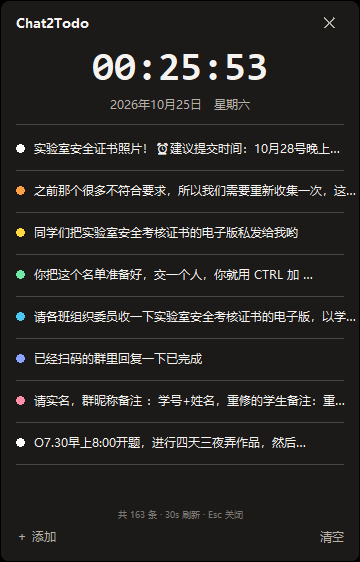
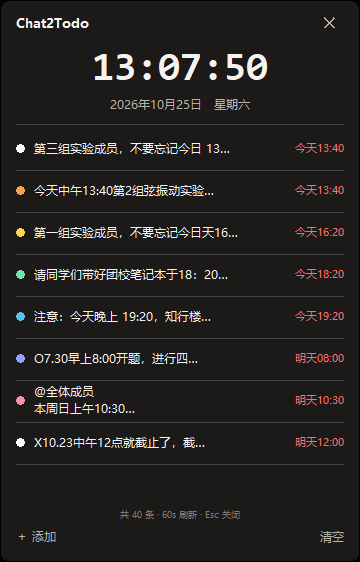
feat(dashboard): due-date chips, urgency colors, deadline-ordered list, right-click mute

diff --git a/src/chat2todo/core/deadline.py b/src/chat2todo/core/deadline.py
@@ -1,0 +1,136 @@
+"""从聊天文本里解析截止时间。
+
+只覆盖中文聊天里最常见的说法，解析不出来就返回 None——宁可没有，也不要瞎猜。
+支持：
+    10月28号 / 10月28日 22:00前
+    明天下午三点前 / 今晚19:20 / 后天中午
+    周二 / 下周三 / 本周五
+    只有时间没有日期时按「今天，如果已过则明天」处理
+"""
+
+from __future__ import annotations
+
+import re
+from datetime import datetime, timedelta
+from typing import Optional
+
+_REL = {
+    "今天": 0, "今晚": 0, "今日": 0,
+    "明天": 1, "明晚": 1, "明日": 1,
+    "后天": 2, "大后天": 3,
+}
+_WEEK = {"一": 0, "二": 1, "三": 2, "四": 3, "五": 4, "六": 5, "日": 6, "天": 6}
+_PERIOD = {"凌晨": 0, "早上": 0, "上午": 0, "中午": 12, "下午": 12, "傍晚": 18, "晚上": 12, "今晚": 12}
+
+_MD = re.compile(r"(\d{1,2})\s*月\s*(\d{1,2})\s*[日号]")
+_WEEKDAY = re.compile(r"(下?)\s*(?:周|星期)\s*([一二三四五六日天])")
+_HHMM = re.compile(r"(\d{1,2})\s*[:：]\s*(\d{2})")
+_HOUR = re.compile(r"(凌晨|早上|上午|中午|下午|傍晚|晚上)?\s*(\d{1,2})\s*[点时](半)?")
+_CN_HOUR = re.compile(r"(凌晨|早上|上午|中午|下午|傍晚|晚上)?\s*([一二三四五六七八九十]{1,3})\s*[点时](半)?")
+_CN = {"一": 1, "二": 2, "三": 3, "四": 4, "五": 5, "六": 6, "七": 7, "八": 8,
+       "九": 9, "十": 10, "十一": 11, "十二": 12}
+
+
+def _cn_to_int(s: str) -> Optional[int]:
+    return _CN.get(s)
+
+
+def parse(text: str, now: Optional[datetime] = None) -> Optional[int]:
+    """返回截止时间的 Unix 时间戳；无法判断时返回 None。"""
+    if not text:
+        return None
+    now = now or datetime.now()
+
+    date: Optional[datetime] = None
+    if (m := _MD.search(text)):
+        month, day = int(m.group(1)), int(m.group(2))
+        year = now.year
+        try:
+            cand = now.replace(month=month, day=day, hour=0, minute=0, second=0, microsecond=0)
+        except ValueError:
+            return None
+        if cand < now - timedelta(days=180):      # 明显是明年的事
+            cand = cand.replace(year=year + 1)
+        date = cand
+    else:
+        for word, delta in _REL.items():
+            if word in text:
+                date = (now + timedelta(days=delta)).replace(hour=0, minute=0, second=0, microsecond=0)
+                break
+    if date is None and (m := _WEEKDAY.search(text)):
+        target = _WEEK[m.group(2)]
+        ahead = (target - now.weekday()) % 7
+        if m.group(1) == "下" or ahead == 0:
+            ahead += 7 if m.group(1) == "下" else 0
+        date = (now + timedelta(days=ahead)).replace(hour=0, minute=0, second=0, microsecond=0)
+    if date is None:
+        # 只有时间（如「19点前到」）：按今天算，已过则明天
+        if not (_HHMM.search(text) or _HOUR.search(text)):
+            return None
+        date = now.replace(hour=0, minute=0, second=0, microsecond=0)
+
+    hour = minute = None
+    if (m := _HHMM.search(text)):
+        hour, minute = int(m.group(1)), int(m.group(2))
+    elif (m := _HOUR.search(text)):
+        period, hh, half = m.group(1), int(m.group(2)), m.group(3)
+        if period in _PERIOD and period != "中午":
+            hour = hh + _PERIOD[period] if hh < 12 else hh
+        elif period == "中午":
+            hour = 12 if hh >= 12 else hh
+        else:
+            hour = hh
+        if 0 <= hour <= 23:
+            minute = 30 if half else 0
+        else:
+            hour = minute = None
+    elif (m := _CN_HOUR.search(text)):
+        period, cn, half = m.group(1), _cn_to_int(m.group(2)), m.group(3)
+        if cn is None:
+            return None
+        hh = cn
+        if period in _PERIOD and period != "中午":
+            hour = hh + _PERIOD[period] if hh < 12 else hh
+        elif period == "中午":
+            hour = 12 if hh >= 12 else hh
+        else:
+            hour = hh
+        minute = 30 if half else 0
+
+    if hour is None:
+        result = date.replace(hour=23, minute=59)
+    else:
+        result = date.replace(hour=hour, minute=minute or 0)
+    if result < now and date.date() == now.date():
+        # 只有时间的场景：今天的时间已过 → 顺延到明天
+        result += timedelta(days=1)
+    if result < now - timedelta(days=1):
+        return None                                # 明显是过去的旧消息，别当待办截止
+    return int(result.timestamp())
+
+
+def label(ts: Optional[int], now: Optional[datetime] = None) -> str:
+    """把时间戳变成看板上的一小段文字：今天22:00 / 明天 / 3天后 / 已过期。"""
+    if not ts:
+        return ""
+    now = now or datetime.now()
+    due = datetime.fromtimestamp(ts)
+    days = (due.date() - now.date()).days
+    clock = due.strftime("%H:%M")
+    if ts < now.timestamp():
+        return "已过期"
+    if days == 0:
+        return f"今天{clock}"
+    if days == 1:
+        return f"明天{clock}"
+    if days <= 7:
+        return f"{days}天后"
+    return due.strftime("%m-%d")
+
+
+def urgency(ts: Optional[int], now: Optional[datetime] = None) -> int:
+    """0=无期限 1=宽松 2=紧急（24 小时内）。"""
+    if not ts:
+        return 0
+    now = now or datetime.now()
+    return 2 if ts - now.timestamp() <= 86400 else 1

diff --git a/tests/test_deadline.py b/tests/test_deadline.py
@@ -1,0 +1,67 @@
+"""截止时间解析测试（用固定 now，避免依赖真实时间）。"""
+
+from __future__ import annotations
+
+import os
+import sys
+import unittest
+from datetime import datetime
+
+sys.path.insert(0, os.path.join(os.path.dirname(os.path.dirname(os.path.abspath(__file__))), "src"))
+
+from chat2todo.core.deadline import label, parse, urgency  # noqa: E402
+
+NOW = datetime(2026, 10, 25, 9, 0, 0)  # 周日
+
+
+class TestParse(unittest.TestCase):
+    def test_month_day_with_hhmm(self) -> None:
+        ts = parse("建议提交时间：10月28号晚上22:00前", NOW)
+        self.assertIsNotNone(ts)
+        dt = datetime.fromtimestamp(ts)
+        self.assertEqual((dt.month, dt.day), (10, 28))
+
+    def test_tomorrow_afternoon(self) -> None:
+        ts = parse("明天下午三点前把周报发我", NOW)
+        dt = datetime.fromtimestamp(ts)
+        self.assertEqual((dt.month, dt.day), (10, 26))
+        self.assertEqual(dt.hour, 15)
+
+    def test_today_evening(self) -> None:
+        ts = parse("今晚19:20 心理教育课", NOW)
+        dt = datetime.fromtimestamp(ts)
+        self.assertEqual((dt.day, dt.hour, dt.minute), (25, 19, 20))
+
+    def test_only_clock_past_rolls_to_tomorrow(self) -> None:
+        ts = parse("8点前到", NOW)          # 早上 9 点说 8 点，应当顺延
+        self.assertIsNotNone(ts)
+        self.assertGreaterEqual(datetime.fromtimestamp(ts).day, 26)
+
+    def test_no_date_returns_none(self) -> None:
+        self.assertIsNone(parse("大家记得报名下周的分享会", NOW.replace(day=25)))
+        self.assertIsNone(parse("哈哈哈笑死", NOW))
+
+    def test_weekday(self) -> None:
+        ts = parse("周五前交材料", NOW)
+        self.assertIsNotNone(ts)
+        self.assertEqual(datetime.fromtimestamp(ts).weekday(), 4)
+
+
+class TestLabel(unittest.TestCase):
+    def test_labels(self) -> None:
+        due_today = int(NOW.replace(hour=19, minute=20).timestamp())
+        self.assertEqual(label(due_today, NOW), "今天19:20")
+        due_tmr = int((NOW.replace(hour=12, minute=0) + __import__("datetime").timedelta(days=1)).timestamp())
+        self.assertEqual(label(due_tmr, NOW), "明天12:00")
+        self.assertEqual(label(None, NOW), "")
+        past = int((NOW - __import__("datetime").timedelta(hours=5)).timestamp())
+        self.assertEqual(label(past, NOW), "已过期")
+
+    def test_urgency(self) -> None:
+        self.assertEqual(urgency(None, NOW), 0)
+        self.assertEqual(urgency(int(NOW.timestamp()) + 3600, NOW), 2)
+        self.assertEqual(urgency(int(NOW.timestamp()) + 86400 * 3, NOW), 1)
+
+
+if __name__ == "__main__":
+    unittest.main()

diff --git a/src/chat2todo/dashboard.py b/src/chat2todo/dashboard.py
@@ -136,6 +136,15 @@ def run(db_path: str, interval: int = 30, status: str = "pending",
             store.close()
         refresh()
 
+    def set_noise(todo_id: int) -> None:
+        """右键：这条不是待办，标成 noise，以后不再出现在看板。"""
+        store = Store(db_path)
+        try:
+            store.set_status(todo_id, "noise")
+        finally:
+            store.close()
+        refresh()
+
     def add_todo() -> None:
         text = simpledialog.askstring("添加待办", "要做什么？", parent=root)
         if not text or not text.strip():
@@ -192,16 +201,30 @@ def run(db_path: str, interval: int = 30, status: str = "pending",
             if not items:
                 cv.create_text(PAD, y, text="没有待处理的事项 🎉", anchor="w",
                                fill=SUB, font=("Microsoft YaHei UI", 9), tags="body")
+            from .core.deadline import label as due_label, parse as due_parse, urgency as due_urgency
+
+            items = sorted(
+                items[:40],
+                key=lambda i: (i.status != "pending", due_parse(i.text) or 9e18, -int(i.message_ts or 0)),
+            )
             for i, item in enumerate(items[:8]):
                 tag = f"item{i}"
                 cv.create_oval(PAD, y - 4, PAD + 8, y + 4, fill=ACCENTS[i % len(ACCENTS)],
                                outline="", tags=("body", tag))
-                text = item.text if len(item.text) <= 26 else item.text[:26] + "…"
+                due = due_parse(item.text)
+                chip = due_label(due)
+                text = item.text if len(item.text) <= 17 else item.text[:17] + "…"
                 cv.create_text(PAD + 18, y, text=text, anchor="w", fill=TEXT,
                                font=("Microsoft YaHei UI", 9),
                                tags=("body", tag))
+                if chip:
+                    color = {2: "#ff6b6b", 1: "#ffd93d", 0: "#8f8a84"}[due_urgency(due)]
+                    cv.create_text(W - PAD, y, text=chip, anchor="e", fill=color,
+                                   font=("Microsoft YaHei UI", 8), tags=("body", tag))
                 cv.tag_bind(tag, "<Button-1>",
                             lambda _e, tid=item.todo_id: set_done(tid))
+                cv.tag_bind(tag, "<Button-3>",
+                            lambda _e, tid=item.todo_id: set_noise(tid))
                 cv.create_line(PAD, y + 22, W - PAD, y + 22, fill=LINE, tags="body")
                 y += 42
 
